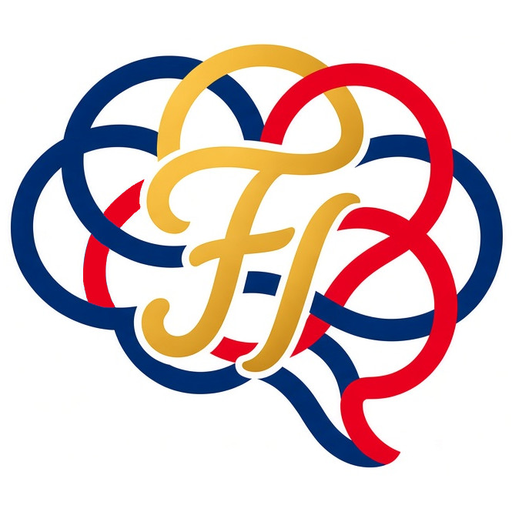
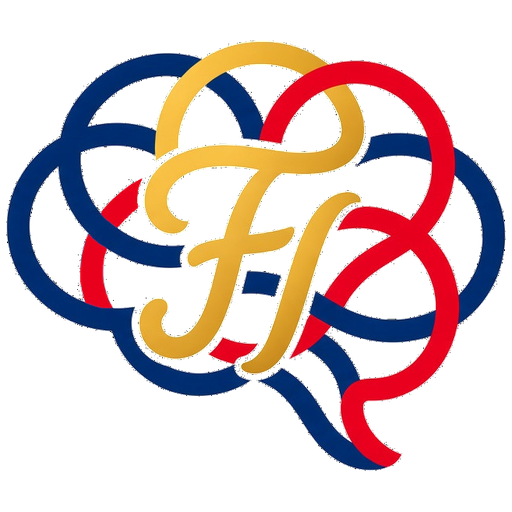
Swap alpha brandmark and drop chalk chrome on large marks
Replace locked PNG with transparent alpha mark, refresh favicon set, and remove white/chalk rounded wrappers around founder and footer marks so they sit on section backgrounds.

diff --git a/components/Footer.tsx b/components/Footer.tsx
@@ -9,7 +9,7 @@ export function Footer() {
         <div>
           <Link
             href="/"
-            className="inline-flex items-center gap-2.5 rounded-lg border border-brass/50 bg-chalk px-3 py-2"
+            className="inline-flex items-center gap-2.5"
             aria-label={`${site.name} Intelligence home`}
           >
             <Image
@@ -20,10 +20,10 @@ export function Footer() {
               className="h-9 w-auto"
             />
             <span className="flex flex-col leading-none">
-              <span className="text-base font-semibold tracking-tight text-navy">
+              <span className="text-base font-semibold tracking-tight text-cream">
                 Fields
               </span>
-              <span className="mt-0.5 text-[0.65rem] font-medium tracking-[0.04em] text-navy">
+              <span className="mt-0.5 text-[0.65rem] font-medium tracking-[0.04em] text-cream/90">
                 Intelligence
               </span>
             </span>

diff --git a/components/Founder.tsx b/components/Founder.tsx
@@ -6,7 +6,7 @@ export function Founder() {
   return (
     <section id="founder" className="section-anchor bg-cream">
       <div className="mx-auto grid max-w-6xl items-center gap-12 px-5 py-16 sm:px-8 sm:py-20 lg:grid-cols-[auto_1fr]">
-        <div className="mx-auto w-40 rounded-xl border border-brass/60 p-2 sm:w-48">
+        <div className="mx-auto w-40 sm:w-48">
           <Image
             src="/brand/fields-brandmark-locked.png"
             alt="Fields Intelligence brandmark"
